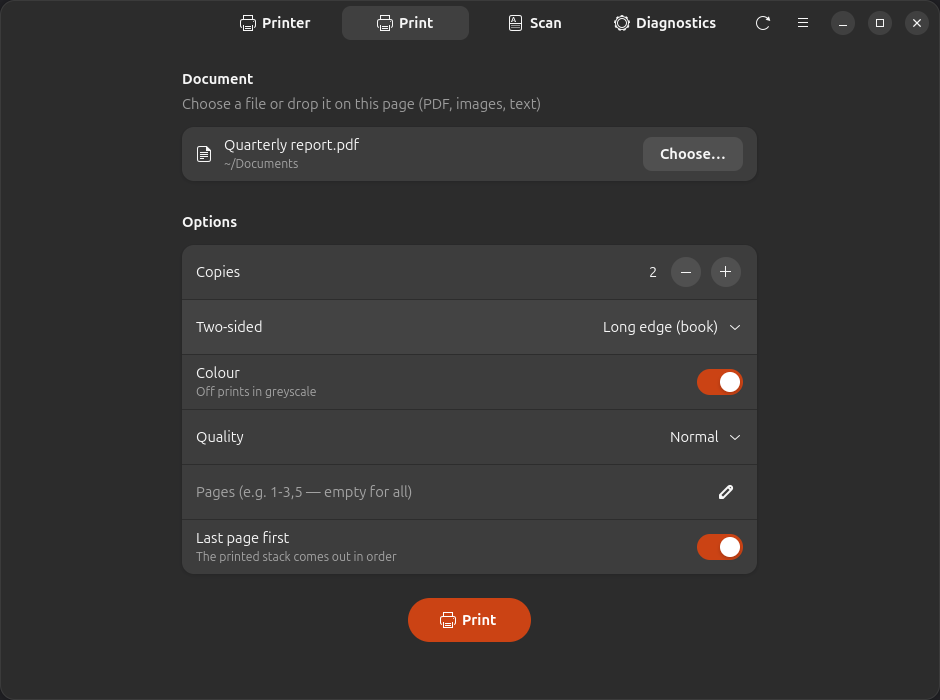
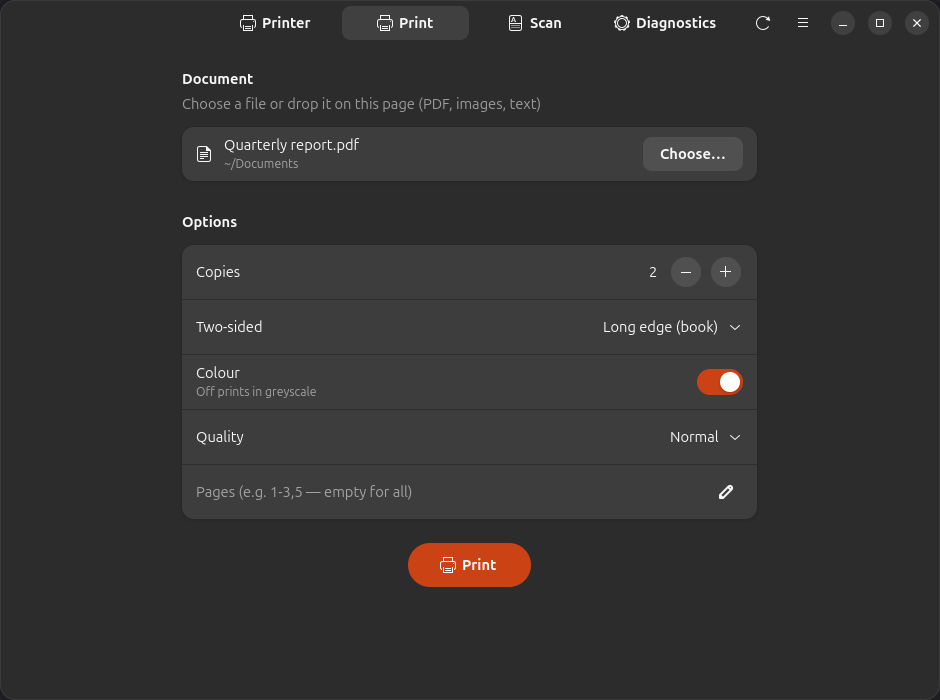
feat: match page order to the output tray and install HPLIP on demand
The print switch is gone: the app reads the tray over IPP and prints
last page first unless pages land face down. HPLIP moves from
Recommends to Suggests and is installed only when an HP model needs it,
with apt waiting for the dpkg lock because the first run starts from
postinst. CI installs apt-utils before building the APT repository.

Changed region(s): [[0.216, 0.75, 0.5862, 0.93], [0.7404, 0.75, 0.8021, 0.81]]

diff --git a/src/libreprint/gui.py b/src/libreprint/gui.py
@@ -150,6 +150,7 @@ class Window(Adw.ApplicationWindow):
         self.runner = runner
         self.queues: list[Queue] = []
         self.queue: Queue | None = None
+        self.face_down = False  # last known output tray of the selected printer
         self.print_path: str | None = None
         self.scanners: list[str] = []
         self.pages: list[tuple[str, int]] = []  # (png path, dpi)
@@ -238,6 +239,7 @@ class Window(Adw.ApplicationWindow):
         index = self.queue_menu.get_selected()
         if 0 <= index < len(self.queues):
             self.queue = self.queues[index]
+            self.face_down = False
             self.refresh()
 
     # --- status page -------------------------------------------------------------
@@ -350,6 +352,7 @@ class Window(Adw.ApplicationWindow):
     def _show_status(
         self, queue: Queue, info: status.PrinterStatus | None, jobs: list[status.Job], lpstat_p: str
     ) -> None:
+        self.face_down = info.face_down if info else False
         state = info.state if info else "unknown"
         if info is None and " is idle" in lpstat_p:
             state = "idle"
@@ -489,16 +492,12 @@ class Window(Adw.ApplicationWindow):
             title="Quality", model=Gtk.StringList.new(["Draft", "Normal", "Best"]), selected=1
         )
         self.pages_row = Adw.EntryRow(title="Pages (e.g. 1-3,5 — empty for all)")
-        self.reverse_row = Adw.SwitchRow(
-            title="Last page first", subtitle="The printed stack comes out in order", active=True
-        )
         rows = (
             self.copies_row,
             self.sides_row,
             self.color_row,
             self.quality_row,
             self.pages_row,
-            self.reverse_row,
         )
         for row in rows:
             opts.add(row)
@@ -551,7 +550,6 @@ class Window(Adw.ApplicationWindow):
             "color": self.color_row.get_active(),
             "quality": ("draft", "normal", "best")[self.quality_row.get_selected()],
             "pages": self.pages_row.get_text(),
-            "reverse": self.reverse_row.get_active(),
         }
         self._submit_print(self.print_path, options)
 
@@ -560,7 +558,7 @@ class Window(Adw.ApplicationWindow):
             self.toast("No printer configured")
             return
         try:
-            argv = status.print_argv(self.queue.name, path, **options)
+            argv = status.print_argv(self.queue.name, path, reverse=not self.face_down, **options)
         except ValueError as exc:
             self.toast(str(exc).capitalize())
             return

diff --git a/tests/test_status.py b/tests/test_status.py
@@ -61,8 +61,32 @@ def test_print_argv():
     ]  # fmt: skip
 
 
-def test_print_argv_in_order():
+def test_print_argv_order():
+    assert "outputorder=reverse" in status.print_argv("Q", "a.pdf")
     assert "outputorder=reverse" not in status.print_argv("Q", "a.pdf", reverse=False)
+
+
+def ipp_out(*lines):
+    return "\n".join(("    printer-make-and-model (text) = Acme 1", *lines)) + "\n"
+
+
+def test_face_up_and_unknown_trays_print_last_page_first():
+    face_up = ipp_out(
+        "    output-bin-default (keyword) = face-up",
+        "    printer-output-tray (octetString) = stackingorder=unknown;pagedelivery=faceUp;name=T1",
+    )
+    assert status.parse_status(face_up).face_down is False
+    assert status.parse_status(ipp_out()).face_down is False
+
+
+def test_face_down_trays_are_detected():
+    by_bin = ipp_out("    output-bin-default (keyword) = face-down")
+    by_tray = ipp_out(
+        "    output-bin-default (keyword) = top",
+        "    printer-output-tray (octetString) = pagedelivery=faceDown;name=T1",
+    )
+    assert status.parse_status(by_bin).face_down is True
+    assert status.parse_status(by_tray).face_down is True
 
 
 def test_print_argv_rejects_bad_input():

diff --git a/tests/test_setup.py b/tests/test_setup.py
@@ -214,7 +214,14 @@ def test_setup_installs_missing_packages_non_interactive():
     runner = make_runner()
     runner.on(*DPKG_STATUS, "sane-airscan", code=1)
     outcome, _ = setup(runner, device)
-    assert ["apt-get", "install", "-y", "sane-airscan"] in runner.calls
+    assert [
+        "apt-get",
+        "install",
+        "-y",
+        "-o",
+        "DPkg::Lock::Timeout=300",
+        "sane-airscan",
+    ] in runner.calls
     assert outcome.status == "created"
 
     runner = make_runner()
@@ -325,7 +332,7 @@ def test_setup_usb_everywhere_without_ipp_uri_installs_hplip():
     device = m404()
     device.ipp_everywhere = True  # IPP-over-USB capable, but no ipp-usb endpoint known
     setup(runner, device)
-    assert ["apt-get", "install", "-y", "hplip"] in runner.calls
+    assert ["apt-get", "install", "-y", "-o", "DPkg::Lock::Timeout=300", "hplip"] in runner.calls
 
 
 def test_run_auto_waits_for_ipp_usb_endpoint():

diff --git a/src/libreprint/status.py b/src/libreprint/status.py
@@ -40,6 +40,7 @@ class PrinterStatus:
     message: str
     supplies: tuple[Supply, ...]
     firmware: str
+    face_down: bool = False  # pages land face down, so they already stack in reading order
 
 
 @dataclass(frozen=True)
@@ -59,6 +60,12 @@ def _int(value: str, default: int = -1) -> int:
         return int(value)
     except ValueError:
         return default
+
+
+def _is_face_down(attrs: dict[str, str]) -> bool:
+    if "face-down" in attrs.get("output-bin-default", "").lower():
+        return True
+    return "pagedelivery=facedown" in attrs.get("printer-output-tray", "").lower()
 
 
 def parse_status(out: str) -> PrinterStatus | None:
@@ -87,6 +94,7 @@ def parse_status(out: str) -> PrinterStatus | None:
         message=attrs.get("printer-state-message", ""),
         supplies=supplies,
         firmware=attrs.get("printer-firmware-string-version", ""),
+        face_down=_is_face_down(attrs),
     )
 
 

diff --git a/tests/test_deps.py b/tests/test_deps.py
@@ -22,7 +22,7 @@ def test_not_installed_status_is_missing():
 
 
 def test_install_retries_after_update():
-    install = ["apt-get", "install", "-y", "sane-airscan"]
+    install = ["apt-get", "install", "-y", "-o", "DPkg::Lock::Timeout=300", "sane-airscan"]
     runner = FakeRunner().on_seq(
         *install,
         results=[Result(100, "", "E: Unable to locate package sane-airscan"), Result(0)],
@@ -36,7 +36,7 @@ def test_install_does_not_retry_other_errors():
     runner = FakeRunner().on("apt-get", "install", code=100, err="E: dpkg was interrupted")
     res = deps.install(runner, ["x"])
     assert res.code == 100
-    assert runner.calls == [["apt-get", "install", "-y", "x"]]
+    assert runner.calls == [["apt-get", "install", "-y", "-o", "DPkg::Lock::Timeout=300", "x"]]
 
 
 def test_install_empty_noop():

diff --git a/src/libreprint/deps.py b/src/libreprint/deps.py
@@ -19,6 +19,7 @@ BINARY_PACKAGES: dict[str, str] = {
 }
 
 _INSTALL_TIMEOUT = 900
+_LOCK_WAIT = 300
 _NOT_FOUND_MARKERS = ("Unable to locate package", "has no installation candidate")
 
 
@@ -34,7 +35,8 @@ def missing_packages(runner: Runner, packages: list[str]) -> list[str]:
 def install(runner: Runner, packages: list[str]) -> Result:
     if not packages:
         return Result(0)
-    argv = ["apt-get", "install", "-y", *packages]
+    # the first run starts from postinst, while dpkg still holds its lock
+    argv = ["apt-get", "install", "-y", "-o", f"DPkg::Lock::Timeout={_LOCK_WAIT}", *packages]
     res = runner.run(argv, timeout=_INSTALL_TIMEOUT)
     if not res.ok and any(marker in res.err for marker in _NOT_FOUND_MARKERS):
         runner.run(["apt-get", "update"], timeout=_INSTALL_TIMEOUT)

diff --git a/tests/test_packaging.py b/tests/test_packaging.py
@@ -50,10 +50,10 @@ def test_control_file():
     assert "Architecture: all\n" in control
     assert "Depends: python3 (>= 3.10), cups, cups-client\n" in control
     assert (
-        "Recommends: ipp-usb, avahi-daemon, avahi-utils, libnss-mdns, printer-driver-hpcups, "
-        "hplip, sane-utils, sane-airscan, libsane-hpaio, cups-ipp-utils, "
-        "python3-gi, gir1.2-adw-1, python3-cairo\n"
+        "Recommends: ipp-usb, avahi-daemon, avahi-utils, libnss-mdns, sane-utils, sane-airscan, "
+        "cups-ipp-utils, python3-gi, gir1.2-adw-1, python3-cairo\n"
     ) in control
+    assert "Suggests: hplip, printer-driver-hpcups, libsane-hpaio\n" in control
     assert "not affiliated with any printer manufacturer" in control
 
 

diff --git a/src/libreprint/setup.py b/src/libreprint/setup.py
@@ -177,7 +177,7 @@ def _setup_device(
     if existing is not None:
         taken.discard(existing.name)  # --force: reconfigure the existing queue in place
 
-    # 2. HPLIP database needed unless the device can be set up driverless right now.
+    # 2. HP only: HPLIP database needed unless the device can be set up driverless right now.
     if device.is_hp and not _driverless_ready(device) and db is None:
         error = _ensure_packages(
             runner, ["hplip", "printer-driver-hpcups"], config, ui, opts.assume_yes

diff --git a/README.md b/README.md
@@ -32,8 +32,8 @@ through HPLIP.
 - **Ink levels at a glance**, with a warning when a cartridge is running low.
 - **Print queue you can see and control** — a banner on every screen while something prints, and
   one click to cancel a job or all of them.
-- **Printing options** — copies, two-sided, colour or greyscale, quality, page ranges, and
-  last-page-first output so the stack comes out in order.
+- **Printing options** — copies, two-sided, colour or greyscale, quality and page ranges. Page
+  order follows the printer's output tray, so the stack comes out in reading order.
 - **Multi-page scanning** to a single PDF, or to PNG/JPEG, with a preview of every page.
 - **Diagnostics** that check CUPS, network discovery, firewall and scanner, and tell you the
   command that fixes each problem.
@@ -135,8 +135,15 @@ For each printer found, LibrePrint picks the first method that applies:
 Scanning is configured separately: devices of any make that advertise eSCL (`_uscan._tcp`,
 the "AirScan" protocol) use `sane-airscan`; otherwise HP models with scan support use `libsane-hpaio`.
 
-Missing packages (for example `hplip`, `printer-driver-hpcups`, `sane-airscan`) are installed
-with `apt-get` unless you set `install_packages = false`.
+Missing packages (for example `sane-airscan`) are installed with `apt-get` unless you set
+`install_packages = false`. HPLIP is not part of the normal install: `hplip` and
+`printer-driver-hpcups` are only installed when an HP model needs them.
+
+## Page order
+
+The app reads the printer's output tray over IPP. If pages land face up, it prints the last page
+first so the stack ends up in reading order. If they land face down, it prints normally, because
+that stack is already in order. Printers that do not report their tray get last page first.
 
 ## Automatic mode
 

diff --git a/docs/releases/v0.1.0.md b/docs/releases/v0.1.0.md
@@ -15,7 +15,8 @@ supported through HPLIP.
 - Setup in one command, with automatic setup when a printer is connected
 - Ink levels with low-ink warnings
 - Print queue with cancel controls
-- Print options: copies, two-sided, colour, quality, page ranges and reverse page order
+- Print options: copies, two-sided, colour, quality and page ranges; page order follows the
+  printer's output tray so the stack comes out in reading order
 - Multi-page scanning to PDF, PNG or JPEG for eSCL (AirScan) scanners
 - Diagnostics with suggested fixes (`libreprint doctor`)
 
